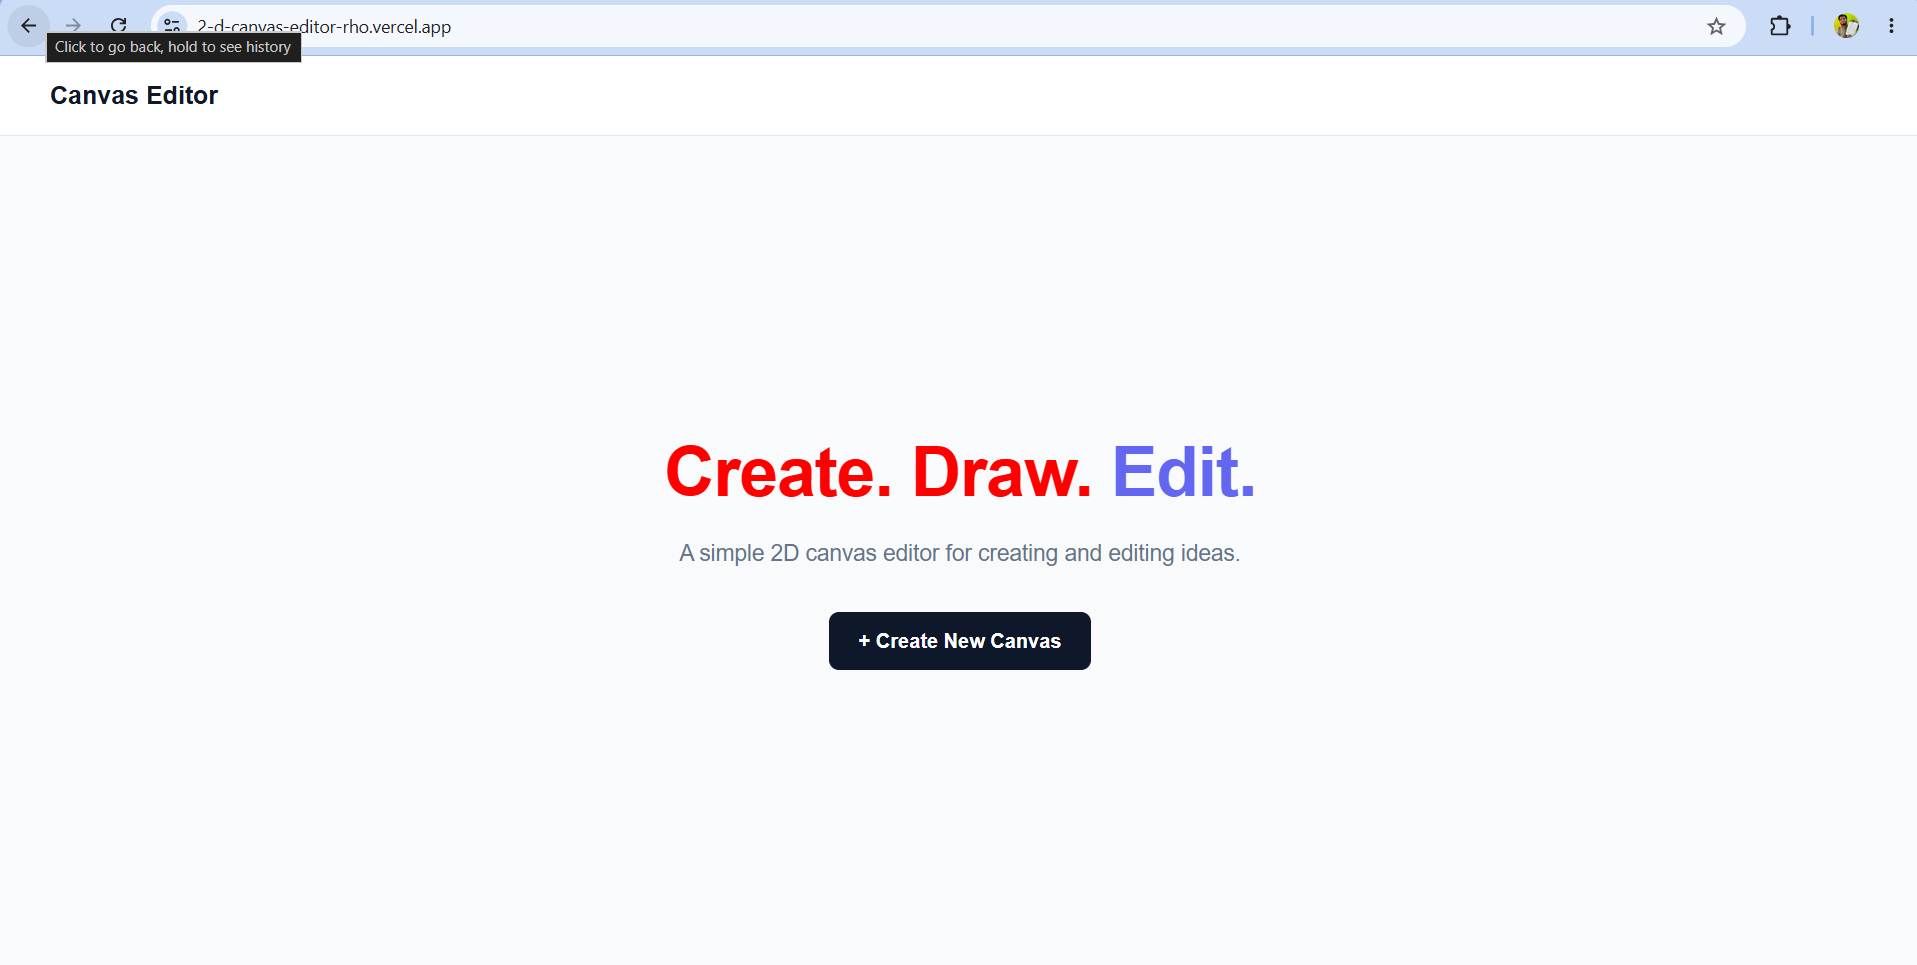
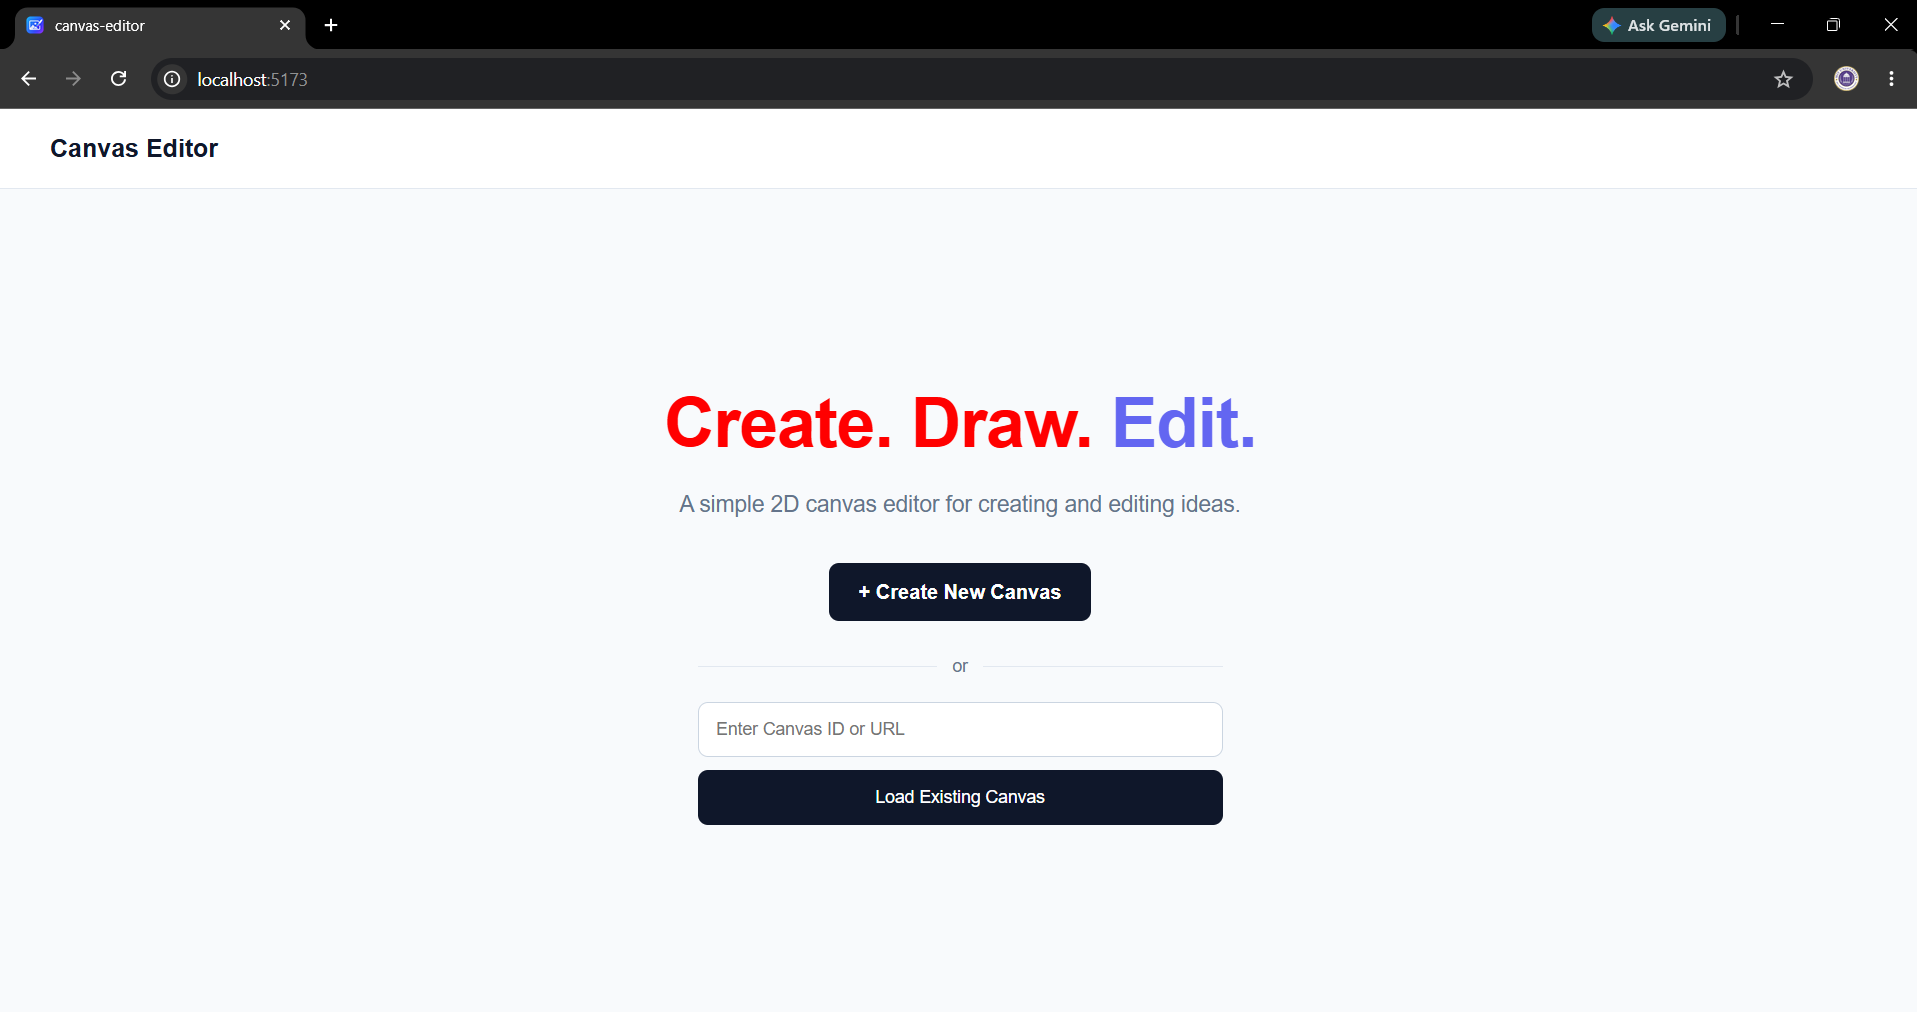
Updated Readme.md and screenshots

Changed region(s): [[0.0, 0.0, 1.0, 0.1554], [0.3385, 0.3731, 0.6463, 0.8394]]

diff --git a/canvas-editor/src/pages/Canvas.css b/canvas-editor/src/pages/Canvas.css
@@ -7,9 +7,11 @@
 }
 
 .canvas-header {
-  width: 100%;
-  padding: 16px 24px 8px;
-  box-sizing: border-box;
+    width: 100%;
+    max-width: 1000px;
+    box-sizing: border-box;
+    padding: 16px 0 8px;
+    margin: 0 auto 20px;
 }
 
 .canvas-name-input {

diff --git a/canvas-editor/README.md b/canvas-editor/README.md
@@ -10,6 +10,8 @@ The editor allows users to create a canvas, add different types of objects, edit
 
 - Create a new canvas
 - Unique URL for every canvas
+- Load an existing canvas using its Canvas ID or URL
+- Rename canvas
 - Rectangle tool
 - Circle tool
 - Text tool
@@ -22,11 +24,11 @@ The editor allows users to create a canvas, add different types of objects, edit
 - Select all objects with `Ctrl + A`
 - Save canvas state to Firebase Firestore
 - Restore saved canvas state after refreshing
+- Export canvas as PNG
 - `Ctrl + S` keyboard shortcut
 - Saved / Unsaved Changes / Saving status
 - Loading state while opening a canvas
 - Error handling for invalid canvas URLs
-- Responsive interface
 
 Authentication is not implemented because it was not required for the assignment.
 
@@ -70,6 +72,10 @@ For example:
 
 When this URL is opened, the application retrieves the corresponding canvas from Firestore and loads it into Fabric.js.
 
+An existing canvas can also be opened from the Home page by entering its Canvas ID or a canvas URL.
+
+Once inside the editor, the canvas can be renamed and exported as PNG in addition to the core editing and persistence features.
+
 
 ```text
 Home Page
@@ -92,7 +98,9 @@ Canvas Editor
     ├── Add Objects
     ├── Edit Objects
     ├── Draw
-    └── Change Colors
+    ├── Change Colors
+    ├── Rename Canvas
+    ├── Export PNG
     │
     ▼
 Save Canvas
@@ -249,11 +257,28 @@ Saving...
 
 A save version counter is used when saving. This prevents the UI from incorrectly showing `Saved` if the user makes another change while a previous save request is still in progress.
 
+### Canvas Rename
+
+The canvas name is stored in the `name` field of the corresponding Firestore document.
+
+When the user edits the canvas name, the updated value is written back to Firestore. The name is also loaded when the canvas is opened so it persists across refreshes and future visits.
+
+### Loading an Existing Canvas
+
+The Home page provides an option to load an existing canvas using either its Canvas ID or its full canvas URL.
+
+The application extracts the canvas ID and navigates to `/canvas/:canvasId`. The Canvas page then retrieves the corresponding document from Firestore.
+
+### Canvas Export
+
+The editor supports exporting the current canvas as PNG.
+
+For PNG export, Fabric.js converts the current canvas into an image data URL which is then downloaded by the browser.
+
+
 ---
 
 ## 🐛 Challenges & Solutions
-
-## 🛠 Challenges & Solutions
 
 While building the editor, I encountered a few issues during development. Here are some of the main challenges I faced and how I solved them.
 
@@ -414,6 +439,36 @@ That ID is then used in the route:
 
 ---
 
+## 📸 Screenshots
+
+Screenshots can be added here as the project documentation is finalized.
+
+### Home Page
+
+![Home Page](../screenshots/home_page.png)
+
+### Canvas Editor
+
+![Canvas Editor](../screenshots/untitled_canvas.png)
+
+### Renaming Canvas
+
+![Rename Canvas](../screenshots/renaming_canvas.png)
+
+### Saved Canvas
+
+![Saved Canvas](../screenshots/saved_Canvas.png)
+
+### Export Canvas
+
+![Export Canvas](../screenshots/exporting_canvas.png)
+
+### Load Existing Canvas
+
+![Load Canvas](../screenshots/load_existing_canvas.png)
+
+---
+
 ## 🌐 Live Demo
 
 The application is deployed on Vercel:
@@ -436,23 +491,7 @@ Saved canvas is restored
 
 ---
 
-## 📸 Screenshots
 
-Screenshots can be added here as the project documentation is finalized.
-
-### Home Page
-
-![Home Page](../screenshots/Home_page.png)
-
-### Canvas Editor
-
-![Canvas Editor](../screenshots/Editable_Canvas.png)
-
-### Saved Canvas
-
-![Saved Canvas](../screenshots/Saved_Canvas.png)
-
----
 
 ## 📌 Project Status
 
@@ -460,7 +499,7 @@ Screenshots can be added here as the project documentation is finalized.
 
 The required functionality for the assignment has been implemented, tested, and deployed.
 
-The current scope focuses on the core canvas editing and persistence experience. Advanced editor features such as undo/redo, layers, copy/paste, and similar functionality are outside the current scope.
+Additional features including canvas renaming, loading existing canvases, and exporting canvases as PNG have also been implemented.
 
 ---
 

diff --git a/README.md b/README.md
@@ -20,9 +20,12 @@ The project allows users to create individual canvases, add and manipulate objec
 - Delete objects
 - Select all objects
 - Save canvas to Firestore
-- Restore saved canvas using its URL
+- Restore saved canvas state
 - Save status indicator
 - Loading and error states
+- Rename canvas
+- Load an existing canvas using its ID or URL
+- Export Canvas as PNG
 
 ## 🛠 Tech Stack
 
@@ -39,31 +42,38 @@ The project allows users to create individual canvases, add and manipulate objec
 ```text
 Home Page
     │
-    ▼
-Create New Canvas
+    ├── Create New Canvas
+    │       │
+    │       ▼
+    │   Firestore Document
+    │       │
+    │       ▼
+    │   /canvas/:canvasId
     │
-    ▼
-Create Firestore Document
-    │
-    ▼
-Firestore Document ID
-    │
-    ▼
-/canvas/:canvasId
-    │
-    ▼
-Canvas Editor
-    │
-    ├── Add objects
-    ├── Edit objects
-    ├── Draw
-    └── Change colors
-    │
-    ▼
-Save
-    │
-    ▼
-Firestore
+    └── Load Existing Canvas
+            │
+            ▼
+       Canvas ID / URL
+            │
+            ▼
+       /canvas/:canvasId
+            │
+            ▼
+       Canvas Editor
+            │
+            ├── Add objects
+            ├── Edit objects
+            ├── Draw
+            ├── Change colors
+            ├── Rename canvas
+            ├── Export PNG
+            └── Export PDF
+            │
+            ▼
+          Save
+            │
+            ▼
+        Firestore
 
 ```
 
@@ -77,6 +87,14 @@ Firestore
 │   ├── src/
 │   ├── package.json
 │   └── README.md
+│
+├── screenshots/
+│    ├── exporting_canvas.png
+│    ├── home_page.png
+│    ├── load_existing_canvas.png
+│    ├── renaming_canvas.png
+│    ├── saved_canvas.png
+│    └── untitled_canvas.png
 │
 ├── architecture.png     # Architecture diagram
 ├── 2D-Canvas-Editor.drawio
@@ -104,10 +122,12 @@ see:
 
 ## 🧩 Architecture
 
+![Architecture Diagram](./architecture.png)
+
 ### 📌 Project Status
 **Completed**
 
-The required canvas editing, routing, Firebase persistence and deployment functionality has been implemented and tested.
+The required canvas editing, routing, Firebase persistence, and deployment functionality has been implemented and tested. Additional features including canvas renaming, loading existing canvases, and PNG/PDF export have also been added.
 
 ### 🔗 Links
 - Live Demo: [`2D Canvas Editor`](https://2-d-canvas-editor-rho.vercel.app/)
